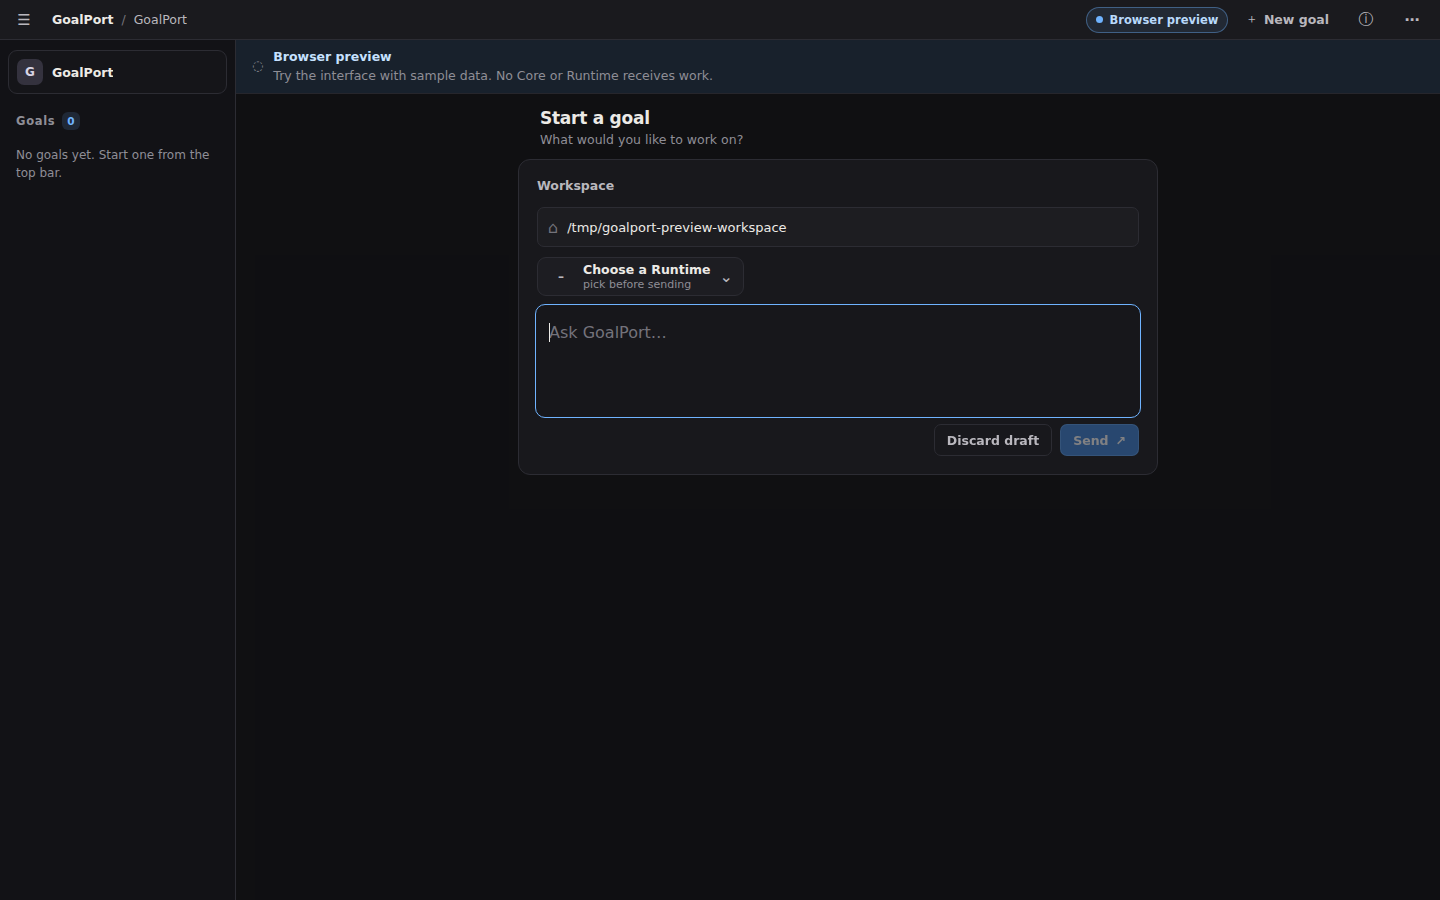
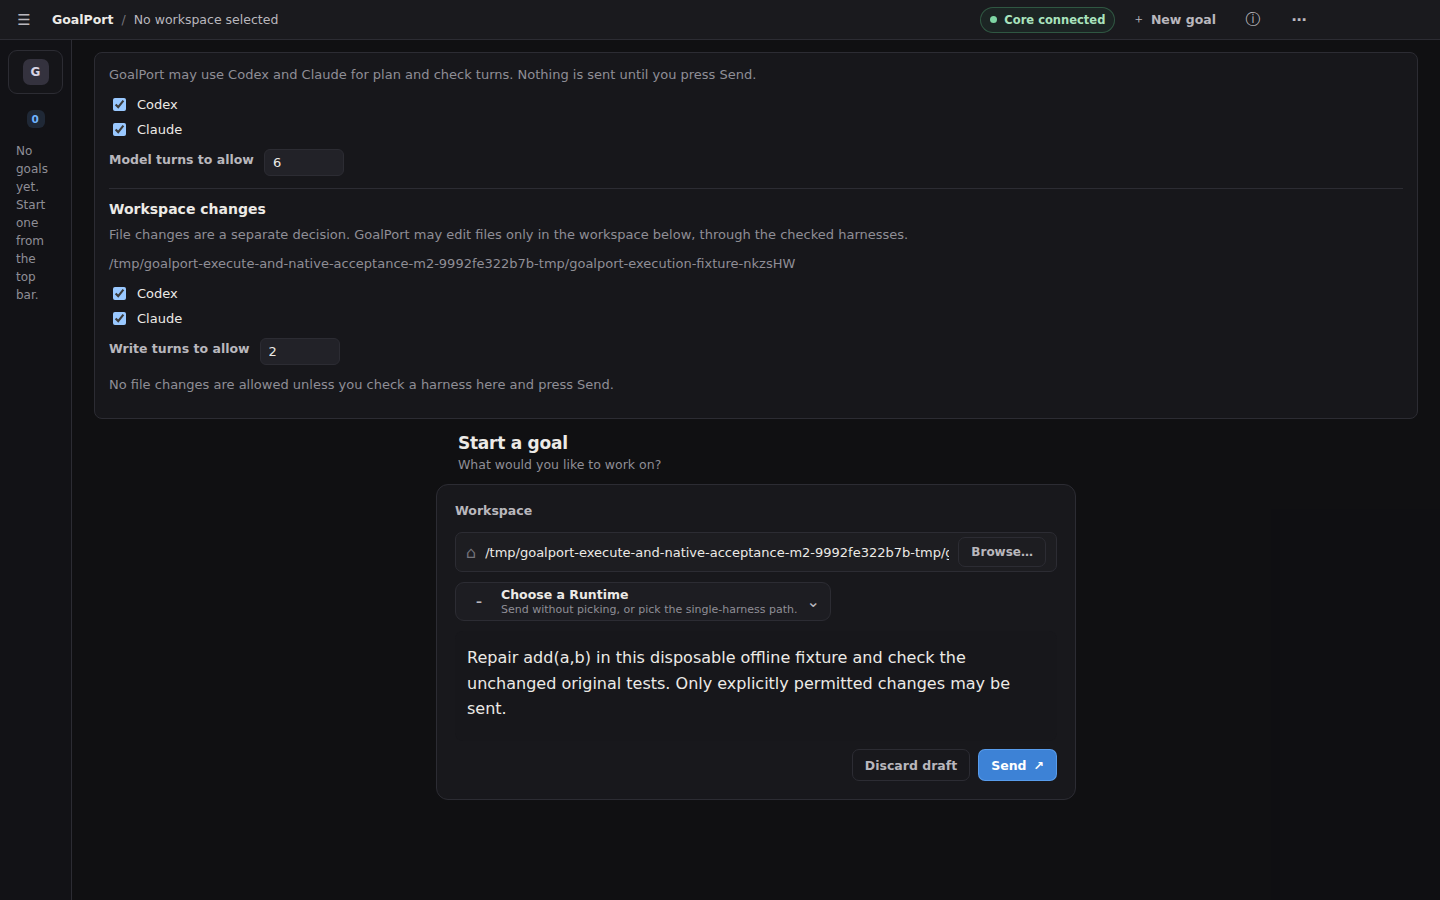
test(acceptance): verify native scoped fixture execution
Exercise one consented Send through the real app's four roles, distinguish readonly and partial stops, and retain actual fixture checks and native screenshots. Document the limits so users can tell verified local process evidence from Windows or model acceptance.

diff --git a/docs/limitations.md b/docs/limitations.md
@@ -23,8 +23,16 @@ GoalPort **1.0.0-rc.1** is a **Stable V1 RC** (release candidate). It has not cl
 - **CLI version changes are not detected.** Newer Runtime CLI versions may behave differently from the recorded ones.
 - **Environment-failure detection is a proven-signature closed set.** When a Codex planning or check turn's own JSONL tool events all fail with a sandbox-helper signature (`helper_unknown_error`, `Failed to create unified exec process`, `sandbox failed`, proven by the captured diagnostic turn in `goal-runs/goalport-pr26-blockers-codex-diag/`), the harness is named as unable to run its tools on this machine. What happens next depends on authorization. Inside a harness access scope, a proven environment failure hands that role to another authorized harness — a new turn with its own grant, never a replay of the failed one — so the round can still finish on the harnesses you allowed; the same handoff applies to the other continuable failure classes (a harness that is not installed, stopped without text, or did not finish, and usage or sign-in failures on the harness's own side), and only when GoalPort knows whether the failed turn was actually sent. Without a scope, the round keeps the legacy early stop: at most one plan and one check, no automatic continuation, and no third turn. Signatures not in that set are not classified as environment failures, the stderr fallback carries the same limit, Claude turns have no structured tool events and rely on that fallback only, and the signature set is not re-derived when the CLI changes.
 - **A harness that cannot run on this machine is remembered, with its evidence, until you clear it.** When a turn proves the machine could not run a harness's tools, GoalPort stores the timestamp and the failure detail (the same proven signatures, capped in length) beside the send ledger and shows the harness as "Blocked on this machine since …" in Harness access; it stays unused for plan and check turns. You can clear the mark at any time with **Use again**, and it also clears on evidence: for Codex, one completed tool call that did not fail proves the tools ran again, while for harnesses without structured tool events a successful turn is the strongest evidence available and clears on that alone. There is no timed re-probe and no automatic re-check — an automatic retry would spend a model turn against your subscription to ask a question the evidence already answered.
-- **Harness access is authorized per window and is never written to disk.** The set of allowed harnesses and the model-turn budget live in the main process of the running window (the window shows a mirror); quitting GoalPort ends the authorization, and **Stop allowing** ends it immediately, after which a new send needs a fresh authorization. The main process alone holds the budget and refuses turns past it; each turn inside the scope writes and consumes the same per-command send-authorization grant a hand-written authorization would, so the audited send path does not change. A scope covers plan and check turns only. At authorize time every instance must be discovered and signed in with a subscription — an API-key (paid) login is refused entry, so automatic recovery can never drift onto a billed API. What the scope cannot see: it records the sign-in type as it was at authorize time, so a later change of CLI credentials on your side is not bound to it, and nothing re-checks membership until you authorize again.
+- **Harness access is authorized per window and is never written to disk.** The set of allowed harnesses and the model-turn budget live in the main process of the running window (the window shows a mirror); quitting GoalPort ends the authorization, and **Stop allowing** ends it immediately, after which a new send needs a fresh authorization. The main process alone holds the budget and refuses turns past it; each turn inside the scope writes and consumes the same per-command send-authorization grant a hand-written authorization would, so the audited send path does not change. The read scope covers planning, checking and independent verification; workspace changes require a separate explicit write authorization with its own budget and pinned workspace (below). At authorize time every instance must be discovered and signed in with a subscription — an API-key (paid) login is refused entry, so automatic recovery can never drift onto a billed API. What the scope cannot see: it records the sign-in type as it was at authorize time, so a later change of CLI credentials on your side is not bound to it, and nothing re-checks membership until you authorize again.
 - **The Scenario Runtime is synthetic.** Its checks never count as native Runtime evidence.
+
+## Coordination execution evidence
+
+- **Read consent is not permission to edit.** For a goal sent without choosing a single Runtime, the existing Harness access section selects read members and a read-turn budget. Workspace changes are separately default-OFF, with their own selected members and 1–8 write-turn budget. Both grants are per-window/session-bound, never persisted, and **Stop allowing** revokes both. Execution spends a write turn; planning, checking and verification spend read turns. A checked plan with no write consent stops without editing.
+- **Writes are launched only against the authorized workspace.** Main-process authority checks the captured scope generation, execution role, write membership, workspace root equality and workspaceWrite command pairing before granting a launch. A changed root, revoked scope or exhausted budget refuses the next launch. This binds the launch; it is not physical filesystem confinement. Actual file restriction depends on the installed harness CLI's sandbox mode. Real CLI flags/models and confinement are **unverified in this round**; the local offline peers check only the fixed disposable fixture root/marker and intercepted mode.
+- **“Changes verified” is conditional harness evidence, not a built-in test runner.** Only a completed writer followed by a different read-only harness whose final line is `VERDICT: verified` can produce it. GoalPort preserves the execution and verification reports in history, but does not generally run or validate workspace tests itself. The local real-app acceptance uses closed offline processes: the writer really repairs a broken Node fixture after its original tests fail, and a separate read-only Node checker reads it and reruns the unchanged tests. This is real filesystem/subprocess evidence, **not independent-model judgment**. A writer that exits unsuccessfully stops with its partial report and may leave edits; no automatic retry, audit takeover or rollback is implied. Inspect the workspace before a fresh send.
+- **Implementation, preview and native acceptance are different evidence.** Unit/component checks cover consent, authoritative dual counters, role pairing, terminal partial writes and record round trips. Synthetic built-UI previews cover three widths, history display and save-failure honesty. The reproducible `pnpm acceptance:execute-native --out <fresh run evidence directory>` driver uses the actual Electron main/preload, built renderer, Core and two sentinel-controlled offline stub processes in WSL/Linux, through normal DOM permission/Send/Close controls; no grants, ledger or history are manually seeded. Its b1/b2/b3 records prove four-role repair/verification, exactly two read-only turns/no edits, and exactly three turns/actual partial edit/failed checks/no audit respectively. CDP input is not OS keyboard/mouse. Native Windows packaged EXE, OS/IME/close behavior, real vendor CLI/model/auth/help/probes and live quota/resource readiness are **not run**, not inferred from these checks. The desktop suite retains nine named baseline failures and platform-specific skips.
+- **This is a bounded four-role round, not an autonomous goal service.** A budget-bound feedback/revise loop and durable closed-window coordinator for this path remain gaps. Closing its window is tested as a real close, not ongoing background work; the legacy Core/session background semantics above do not establish four-role continuation. **Use again** clears blocked-harness health but does not open a ready blank draft. Real resource readiness and provider-side budget behavior still need validation. Local b1 success does not accept the whole goal.
 
 ## Safety and recovery
 

diff --git a/README.md b/README.md
@@ -9,9 +9,9 @@ GoalPort drives Codex, Claude Code and Grok through their installed CLIs. Start 
 ![Status](https://img.shields.io/badge/status-Stable%20V1%20RC-orange)
 ![Platform](https://img.shields.io/badge/platform-Windows%20x64-lightgrey)
 
-![GoalPort showing the New goal form and Runtime picker](docs/assets/screenshots/campaign-conversation.png)
+![GoalPort showing separate read and workspace-change consent before Send](docs/assets/screenshots/campaign-conversation.png)
 
-<sub>Current source in synthetic browser preview. No Core or Runtime is connected.</sub>
+<sub>Current built UI in a real WSL/Linux Electron window with Core and offline sentinel stubs, on a disposable fixture. No real vendor CLI or model call; not Windows packaged acceptance. Read consent and workspace changes are separate decisions. See [coordination limits](docs/limitations.md#coordination-execution-evidence).</sub>
 
 ## Why GoalPort
 
